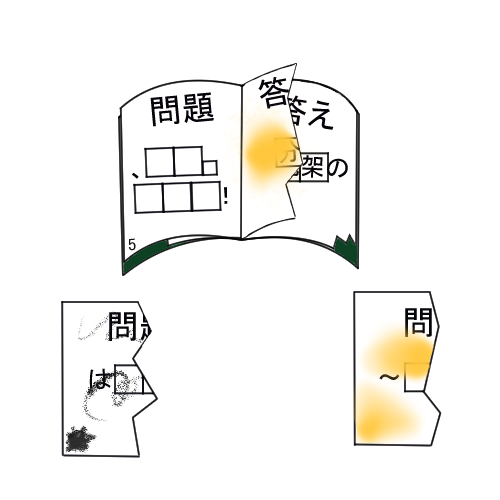
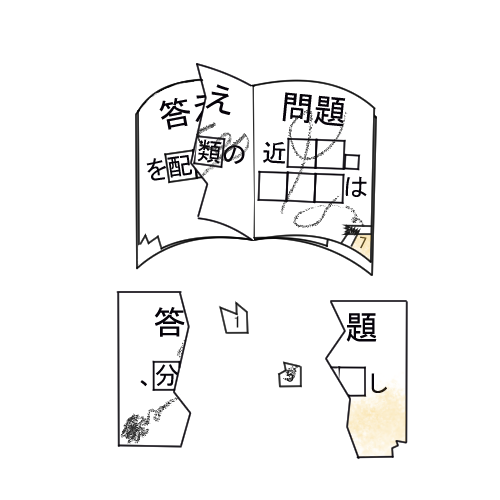
Add files via upload

diff --git a/index.html b/index.html
@@ -294,7 +294,7 @@
         <div class="l_contents l_container-sm">
           <p class="m_question_p">「リファレンスの仕事もばっちりだね！」</p>
           <p class="m_question_p">
-            「最後は修理だね！本のよごれをとったり、紙を付けたりするよ」
+            「最後は修復だね！本のよごれをとったり、紙を付けたりするよ」
           </p>
           <p class="m_question_p">「よろしく」</p>
           <button
@@ -323,26 +323,25 @@
             <p class="m_question_p">んー、なんか見たことある単語ばっかだな</p>
           </div>
           <div class="js_hint" id="shuri3">
-            <p class="m_question_p">あ！いままでの謎の答えだ！！</p>
+            <p class="m_question_p">あ！いままでの謎の答えだ！！今までの謎を見てみよう</p>
           </div>
           <div class="js_hint" id="shuri4">
             <p class="m_question_p">
-              p.5の答えは、リファレンスだな！「、」と「！」の間に□があるんだよな、、
+              p.5の答えは、リファレンスだな！「近」と「は」の間に□があるんだよな、、
             </p>
           </div>
           <div class="js_hint" id="shuri5">
             <p class="m_question_p">
-              あの人が言ってたことを思い出せ～<br />「メモに書いてあった配架の練習をしようか。」<br />「次は～分類について教えよう。」<br />「次は、リファレンス！簡単にいうと本探し。」
+              今までの謎に書いてたのは、<br />「本を配架したら」<br />「司書を目指す場合は、分類のルールを」<br />「最近リファレンスは、AIを使われたり」
             </p>
           </div>
         </div>
       </section>
       <section id="goodEnd" class="l_section js_section">
         <div class="l_contents l_container-sm">
-          <p class="m_question_p">今日はお疲れ様！！</p>
-          <p class="m_question_p">初日にしては中々良い動きだったよ～！</p>
+          <p class="m_question_p">「今日はお疲れ様！！<br />初日にしては中々良い動きだったよ～！</p>
           <p class="m_question_p">
-            バイト初日の子にはアンケートとってるんだけど協力よろしくね！
+            「バイト初日の子にはアンケートとってるんだけど協力よろしくね！」
           </p>
           <br /><br /><br />
           <a

diff --git a/js/main.js b/js/main.js
@@ -192,8 +192,8 @@ const puzzles = [
   },
   {
     question:
-      "<div class=\"l_img-box\"><img src=\"img/shuuri_nazo.png\" alt=\"\" class=\"m_img\" width=\"500\" height=\"500\"/></div><p class=\"m_question_p\">「この本を修理して～。できたらP.7の問題の答えを教えてね！」<br>※漢字入力</p> <input type='text' id='answer' class='m_answer' placeholder='答えを入力' /> <button class='m_btn' id='solveBtn' onclick=\"submitAnswer()\"> 回答 </button> <p id='result'class class='m_question_p'></p>",
-    answer: "修理",
+      "<div class=\"l_img-box\"><img src=\"img/shuuri_nazo.png\" alt=\"\" class=\"m_img\" width=\"500\" height=\"500\"/></div><p class=\"m_question_p\">この本を修復して！できたらP.7の問題の答えを教えてね！！<br>※漢字入力</p> <input type='text' id='answer' class='m_answer' placeholder='答えを入力' /> <button class='m_btn' id='solveBtn' onclick=\"submitAnswer()\"> 回答 </button> <p id='result'class class='m_question_p'></p>",
+    answer: "修復",
   },
 ];
 